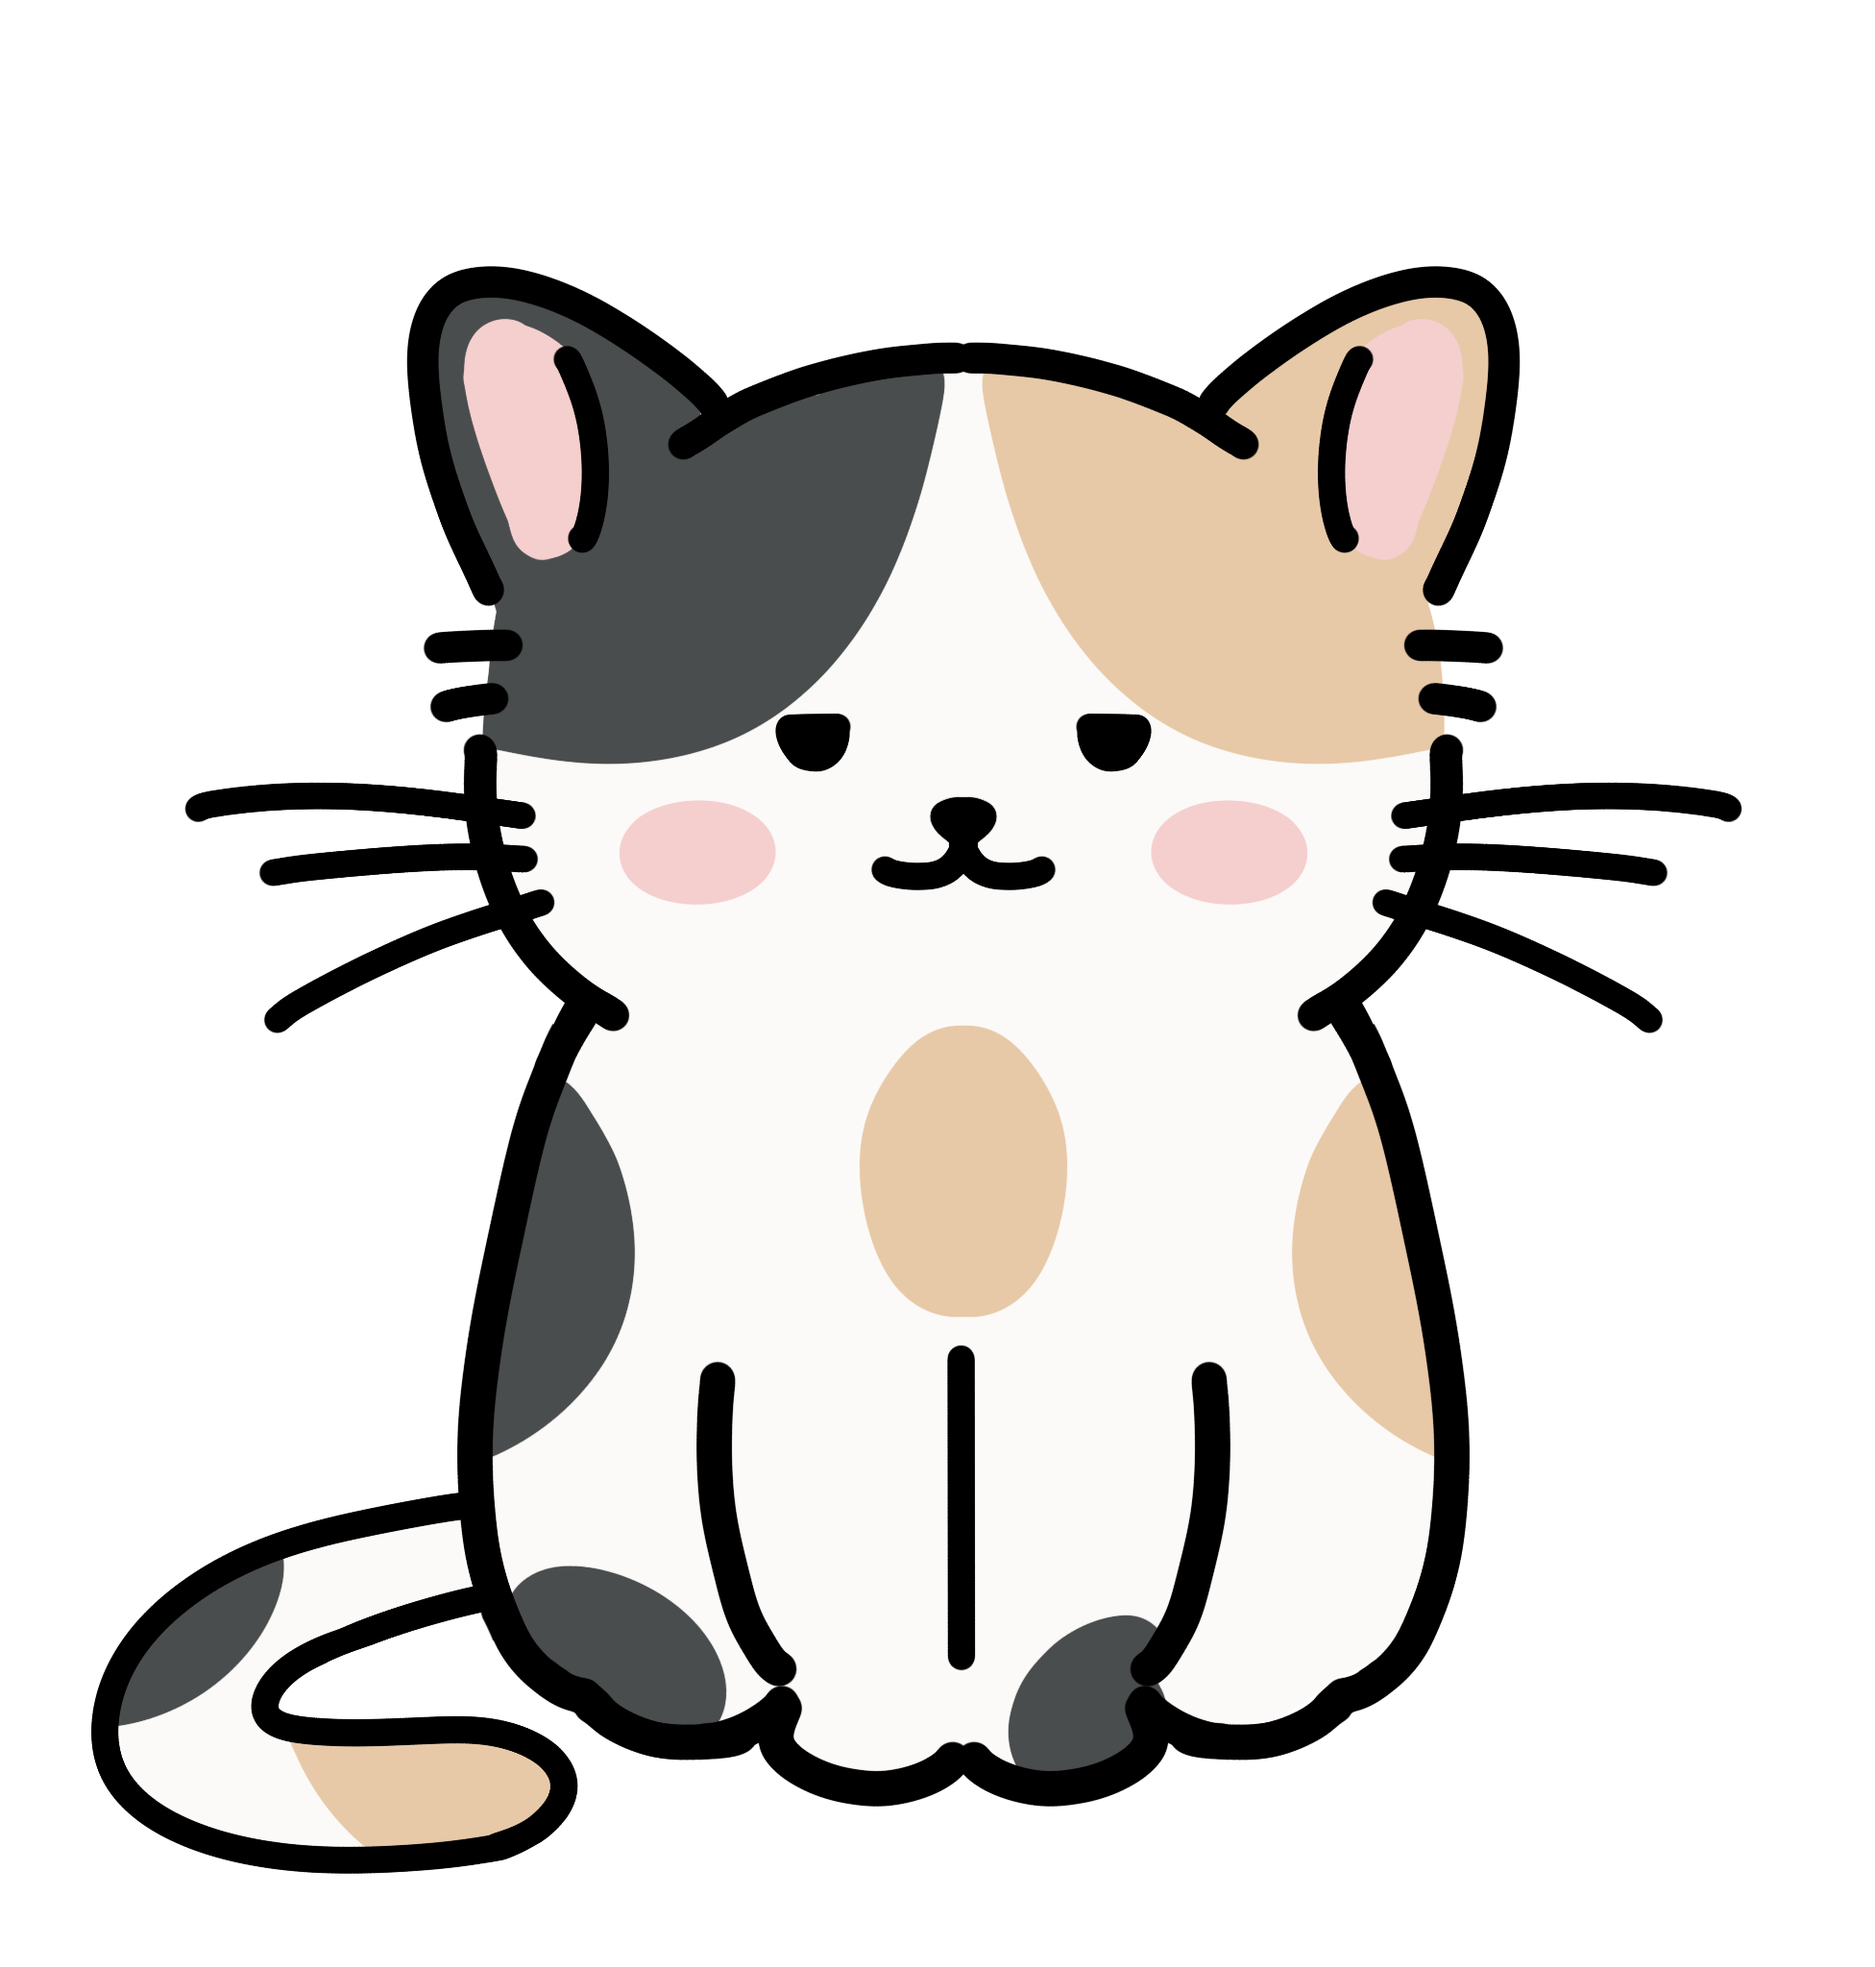
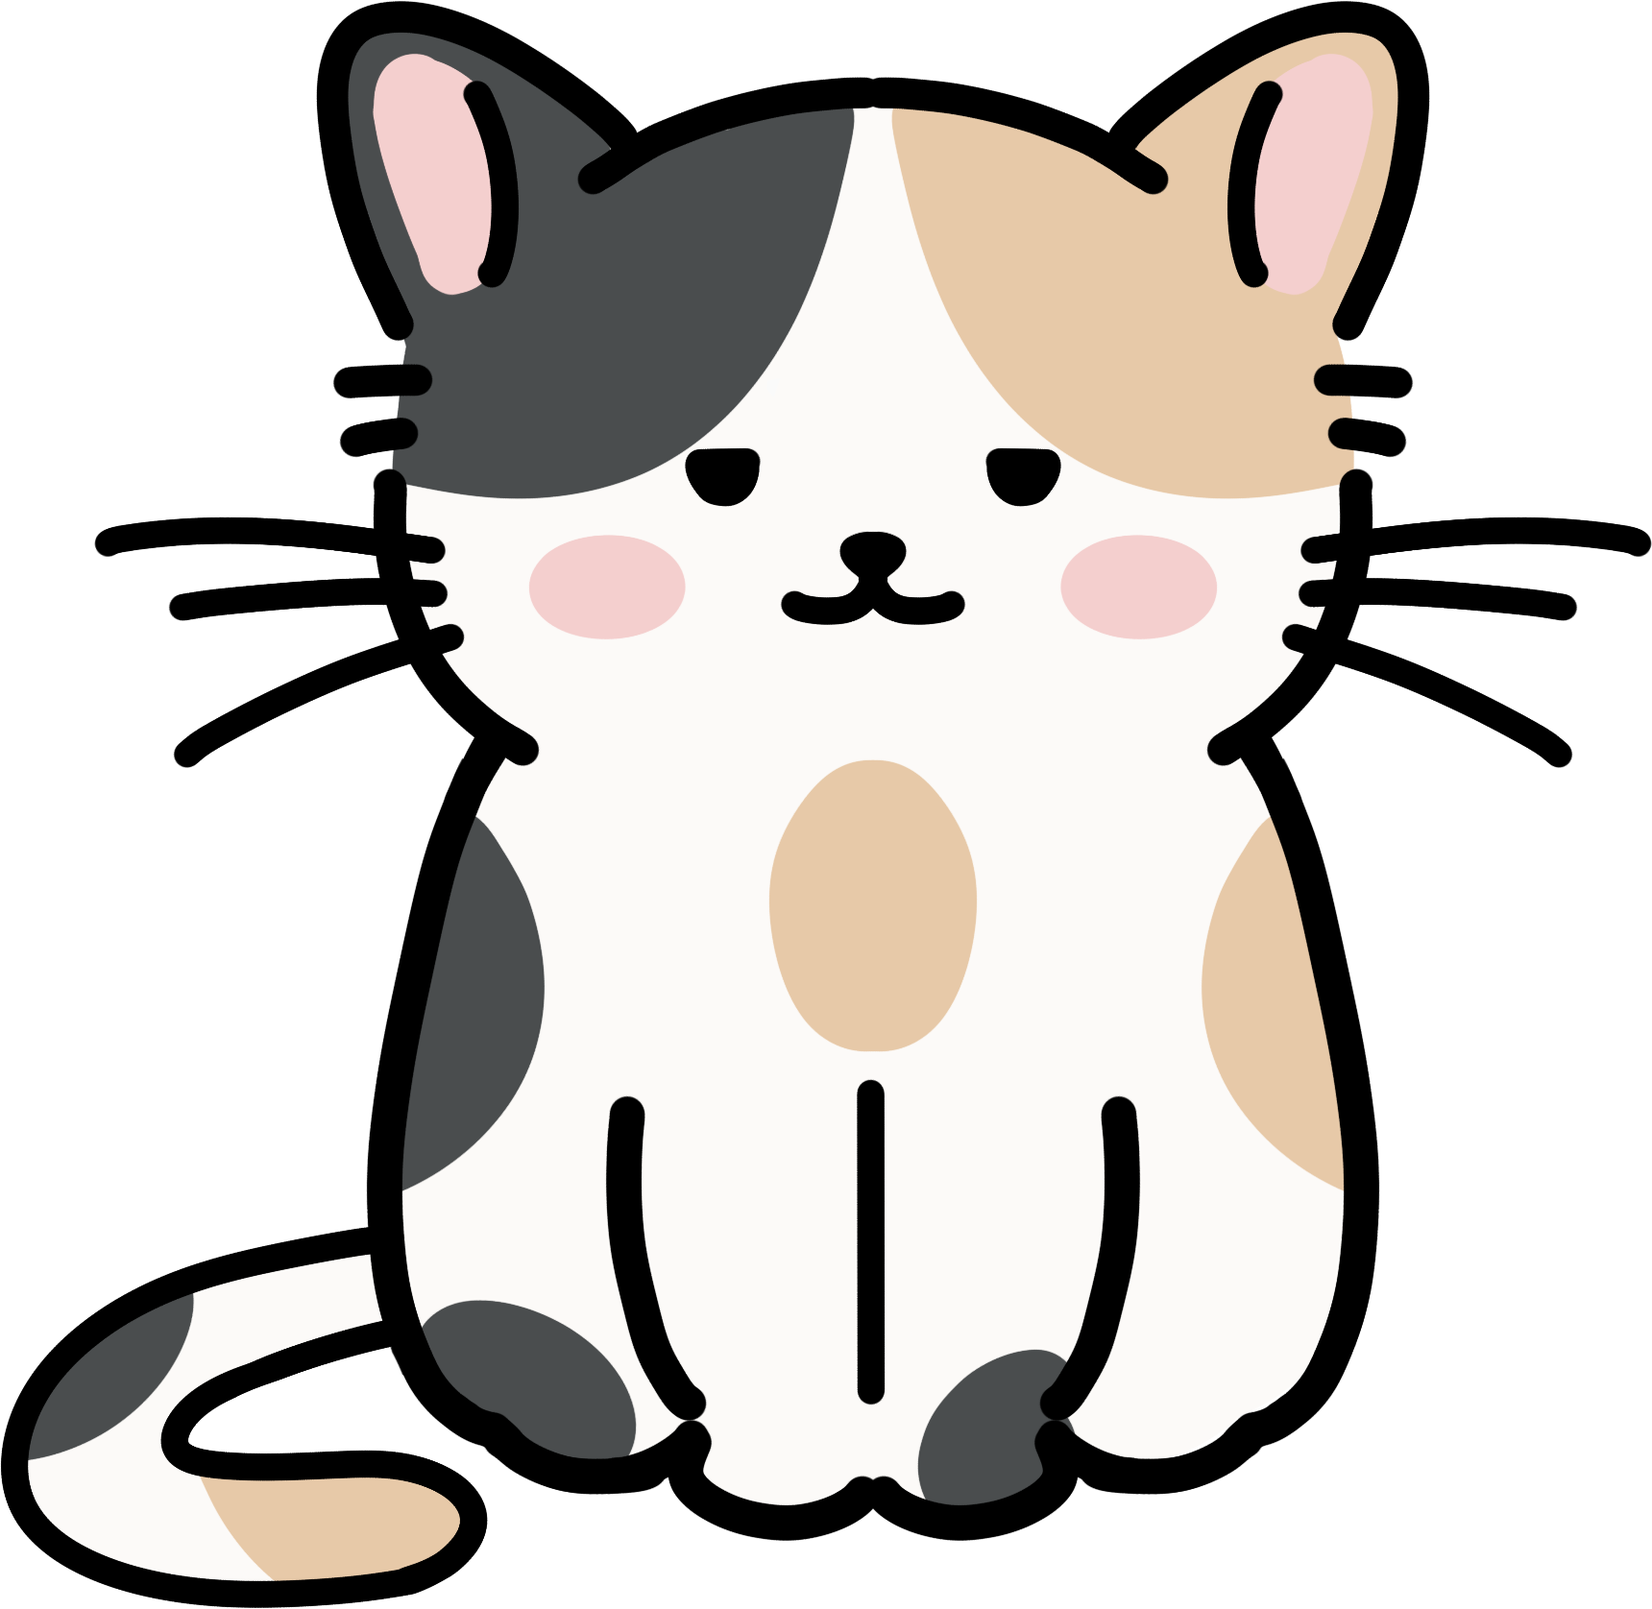
Crop pet artwork and align grass

diff --git a/packages/widget/src/companion.tsx b/packages/widget/src/companion.tsx
@@ -17,15 +17,17 @@ const MOOD_FRAME_MS = 600;
 const BLINK_FRAME_MS = 70;
 const BLINK_EVERY_MS = 4000;
 
-// Every pose is drawn on a canvas of this height; only the widths differ.
-const CANVAS_H = 2048;
-const REST_W = 1952;
+// The source PNGs are tightly cropped to their visible alpha bounds. The rest
+// pose is the scale reference; other frames keep their authored size relative
+// to it and use measured offsets so independently cropped poses do not jump.
+const REST_H = 1676;
+const REST_W = 1720;
 
 // `dx` and `dy` register each frame against the resting pose, in that frame's
-// own canvas pixels, applied on top of centring the canvas and sitting it on the
-// box floor. The poses are drawn on canvases of different widths and the cat is
+// own cropped pixels, applied on top of centring the art and sitting it on the
+// box floor. The poses have different tight dimensions and the cat is
 // not placed identically on any two of them, so the obvious geometry — centre
-// the canvas, flush the bottom — lands the cat in a different spot on almost
+// each crop, flush the bottom — lands the cat in a different spot on almost
 // every frame, which reads as a twitch on each frame change.
 //
 // Deriving these for new art: sample both alpha masks, reduce each to a row and
@@ -36,15 +38,16 @@ const REST_W = 1952;
 // its bounding-box centre sideways while the body has not moved, so aligning
 // boxes would introduce exactly the drift this is meant to remove.
 //
-// Every canvas shares a 2048px height, so all frames render at one scale and
-// these offsets stay valid at any rendered size.
-type Frame = { src: string; w: number; dx: number; dy: number };
+// Frame heights are scaled against REST_H, keeping the authored proportions
+// and these offsets valid at any rendered size.
+type Frame = { src: string; w: number; h: number; dx: number; dy: number };
 
-type FrameSpec = { file: string; w: number; dx: number; dy: number };
+type FrameSpec = { file: string; w: number; h: number; dx: number; dy: number };
 
 const BLINK_SPECS: FrameSpec[] = [1, 2, 3, 4, 5].map((n) => ({
   file: `blinking-${n}`,
   w: REST_W,
+  h: REST_H,
   dx: 0,
   dy: 0,
 }));
@@ -57,12 +60,12 @@ const BLINK_SPECS: FrameSpec[] = [1, 2, 3, 4, 5].map((n) => ({
 // hold the body still through the loop.
 const MOOD_SPECS: Partial<Record<PalCompanionMood, FrameSpec[]>> = {
   happy: [
-    { file: "happy-1", w: 2126, dx: -58, dy: 0 },
-    { file: "happy-2", w: 2126, dx: -54, dy: 6 },
+    { file: "happy-1", w: 1836, h: 1676, dx: -58, dy: 0 },
+    { file: "happy-2", w: 1932, h: 1606, dx: 6, dy: -64 },
   ],
   excited: [
-    { file: "excited-1", w: 2502, dx: -12, dy: 4 },
-    { file: "excited-2", w: 2502, dx: -10, dy: 46 },
+    { file: "excited-1", w: 1727, h: 1676, dx: 2.5, dy: 4 },
+    { file: "excited-2", w: 1835, h: 1805, dx: 0.5, dy: -24 },
   ],
 };
 
@@ -87,13 +90,14 @@ function buildSprites(restUrl: string): SpriteSet {
   const toFrame = (spec: FrameSpec): Frame => ({
     src: `${base}${spec.file}.png`,
     w: spec.w,
+    h: spec.h,
     dx: spec.dx,
     dy: spec.dy,
   });
 
   // The resting pose is the registration reference, so its offsets are zero by
   // definition, and it is the one frame addressed by the snapshot's own URL.
-  const rest: Frame = { src: restUrl, w: REST_W, dx: 0, dy: 0 };
+  const rest: Frame = { src: restUrl, w: REST_W, h: REST_H, dx: 0, dy: 0 };
   const blink: Frame[] = BLINK_SPECS.map(toFrame);
 
   const byMood: Partial<Record<PalCompanionMood, Frame[]>> = {};
@@ -234,7 +238,7 @@ function PetSprite({
           src={frame.src}
           alt=""
           width={frame.w}
-          height={CANVAS_H}
+          height={frame.h}
           onLoad={() => {
             if (frame.src !== sprites.rest.src) {
               setLoadedFrames((current) => {
@@ -253,9 +257,10 @@ function PetSprite({
           }}
           style={{
             opacity: frame.src === activeSrc ? 1 : 0,
-            // Every term is a percentage of the frame's own rendered box, which
-            // maps 1:1 onto its canvas, so the registration holds at any size.
-            transform: `translate(calc(-50% + ${((frame.dx / frame.w) * 100).toFixed(3)}%), ${((frame.dy / CANVAS_H) * 100).toFixed(3)}%)`,
+            height: `${((frame.h / REST_H) * 100).toFixed(3)}%`,
+            // Offsets are percentages of this tightly cropped frame. This keeps
+            // every pose registered while avoiding transparent layout padding.
+            transform: `translate(calc(-50% + ${((frame.dx / frame.w) * 100).toFixed(3)}%), ${((frame.dy / frame.h) * 100).toFixed(3)}%)`,
           }}
         />
       ))}

diff --git a/apps/web/src/app/sandbox/widget-sandbox.module.css b/apps/web/src/app/sandbox/widget-sandbox.module.css
@@ -427,16 +427,13 @@
 .companionOverlay {
   --cat-h: 10rem;
   --cat-w: calc(var(--cat-h) * 1.4);
-  /* grass.png is 2502x2321 — width is derived from height at that exact
-     ratio so this box's aspect ratio matches the image's own exactly.
-     Mismatched aspect is what caused the visible "transparent rectangle":
-     with `background-size: contain` (see .grassPatch), a box wider than
-     the image's own shape leaves bare space on the sides instead of the
-     image filling it. */
-  --grass-h: calc(var(--cat-h) * 1.35);
-  --grass-w: calc(var(--grass-h) * 2502 / 2321);
+  /* grass.png is tightly cropped to its 2502x1035 visible alpha bounds. */
+  --grass-h: calc(var(--cat-h) * 0.6);
+  --grass-w: calc(var(--grass-h) * 2502 / 1035);
   --cat-top: calc(var(--cat-h) * 0.5);
-  --grass-top: calc(var(--cat-top) + var(--cat-h) - (var(--grass-h) / 2));
+  --cat-bottom: calc(var(--cat-top) + var(--cat-h));
+  /* Align the cat's bottom with the grass artwork's vertical midpoint. */
+  --grass-top: calc(var(--cat-bottom) - (var(--grass-h) / 2));
 
   position: absolute;
   z-index: 40;

diff --git a/apps/web/src/app/sandbox/WidgetSandbox.tsx b/apps/web/src/app/sandbox/WidgetSandbox.tsx
@@ -58,8 +58,7 @@ type HostView =
 
 /**
  * The companion renders every mood/blink frame stacked on top of each
- * other and toggles between them with opacity (see PetSprite in
- * packages/widget/src/companion.tsx) rather than swapping the `src`, so
+ * other and toggles between them with opacity rather than swapping the `src`, so
  * the one the pointer actually landed on is whichever currently has
  * opacity 1.
  */
